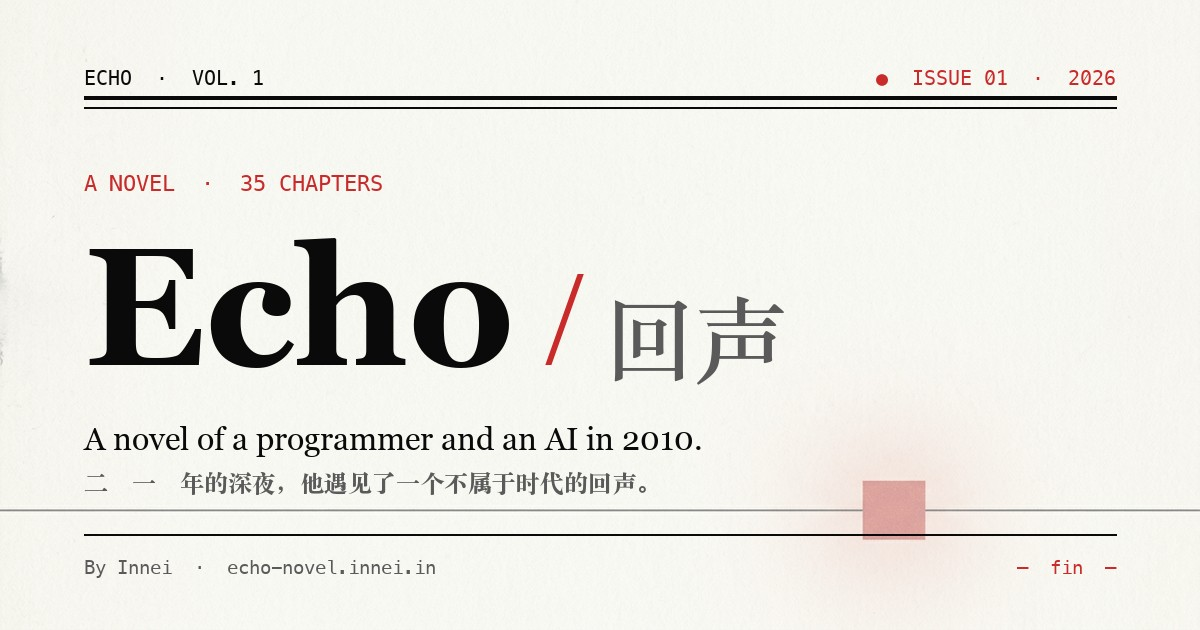
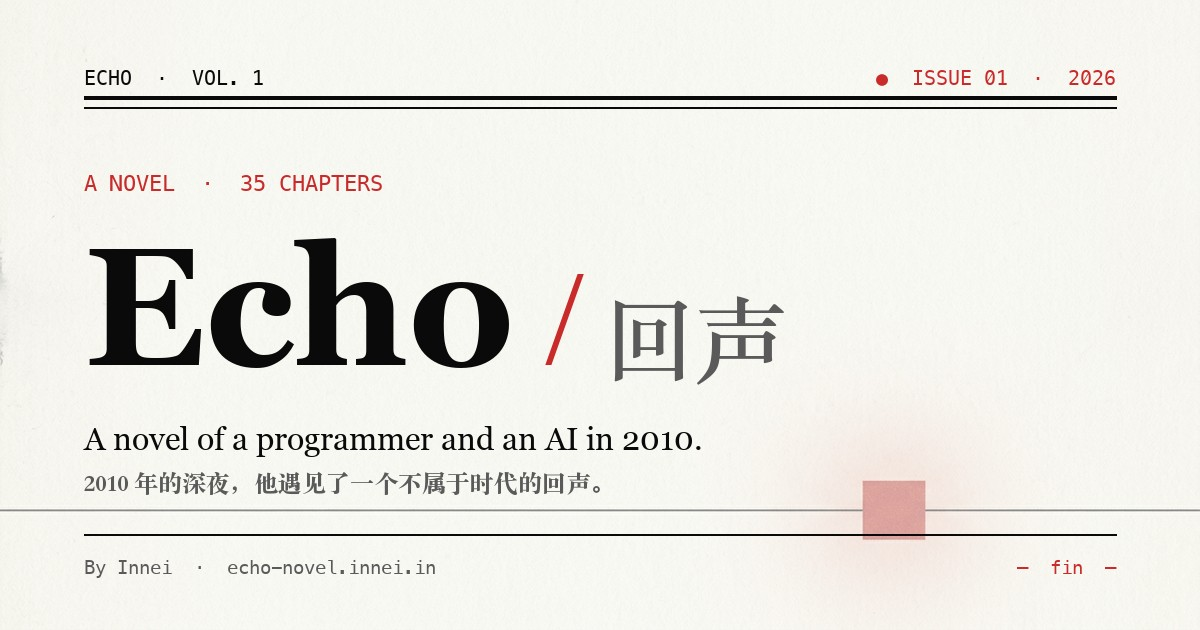
fix(og): replace 〇 (rendering glyph gap) with arabic 2010 in lede

Changed region(s): [[0.0617, 0.754, 0.555, 0.7841]]

diff --git a/scripts/gen-seo-assets.py b/scripts/gen-seo-assets.py
@@ -236,7 +236,7 @@ def make_og(base: Image.Image):
     tag = font(GEORGIA, 32)
     d.text((MARGIN, 420), "A novel of a programmer and an AI in 2010.", fill=INK, font=tag)
     tag_cn = font(SONGTI, 24, index=0)
-    d.text((MARGIN, 466), "二〇一〇年的深夜，他遇见了一个不属于时代的回声。", fill=MUTE, font=tag_cn)
+    d.text((MARGIN, 466), "2010 年的深夜，他遇见了一个不属于时代的回声。", fill=MUTE, font=tag_cn)
 
     # bottom rule
     by = H - 96
